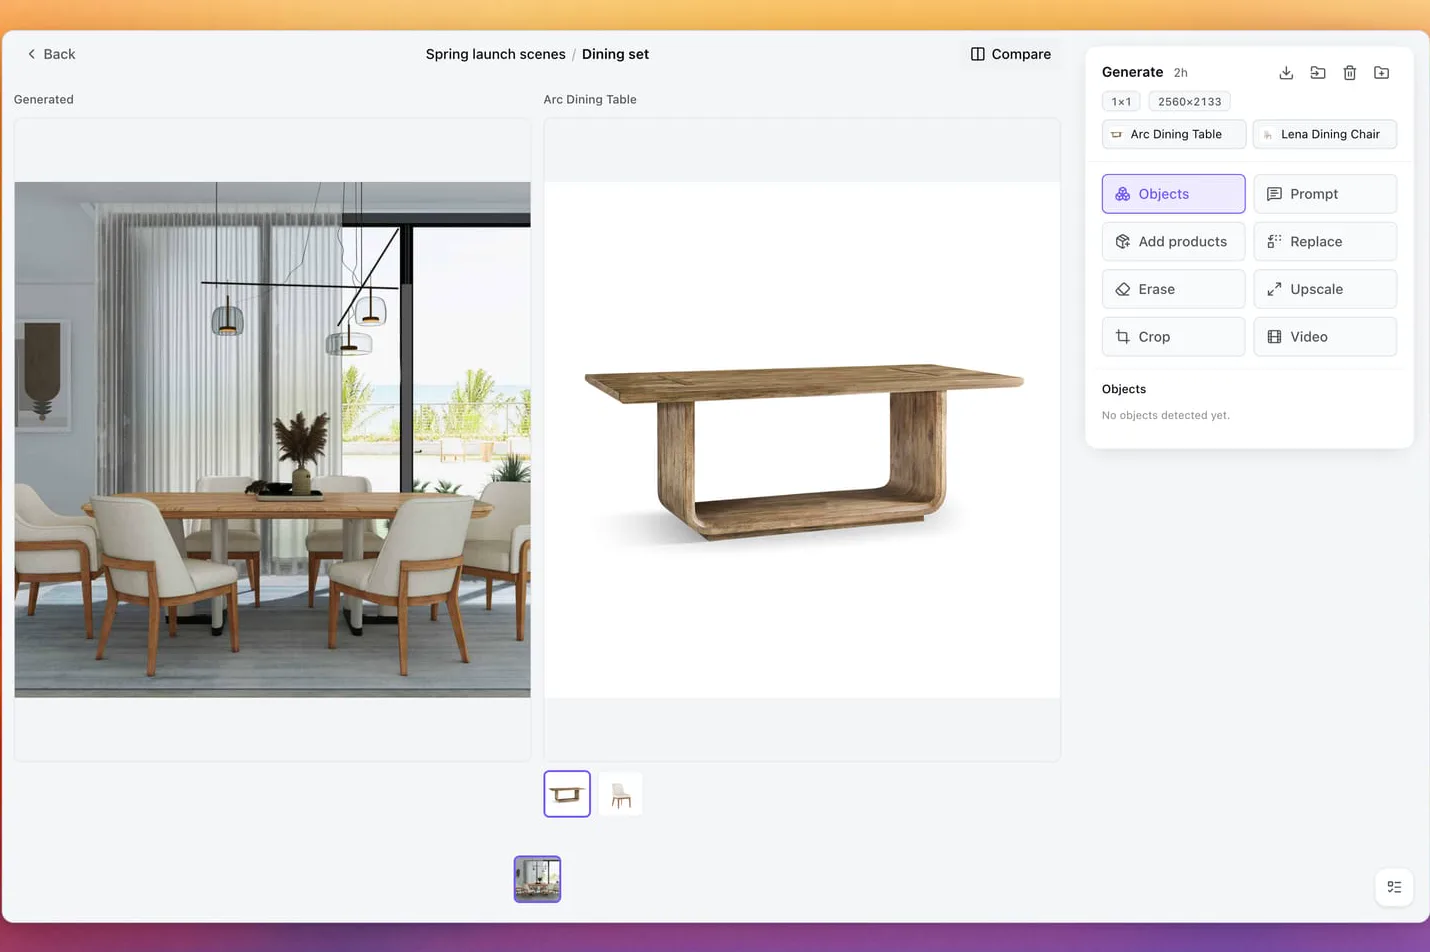
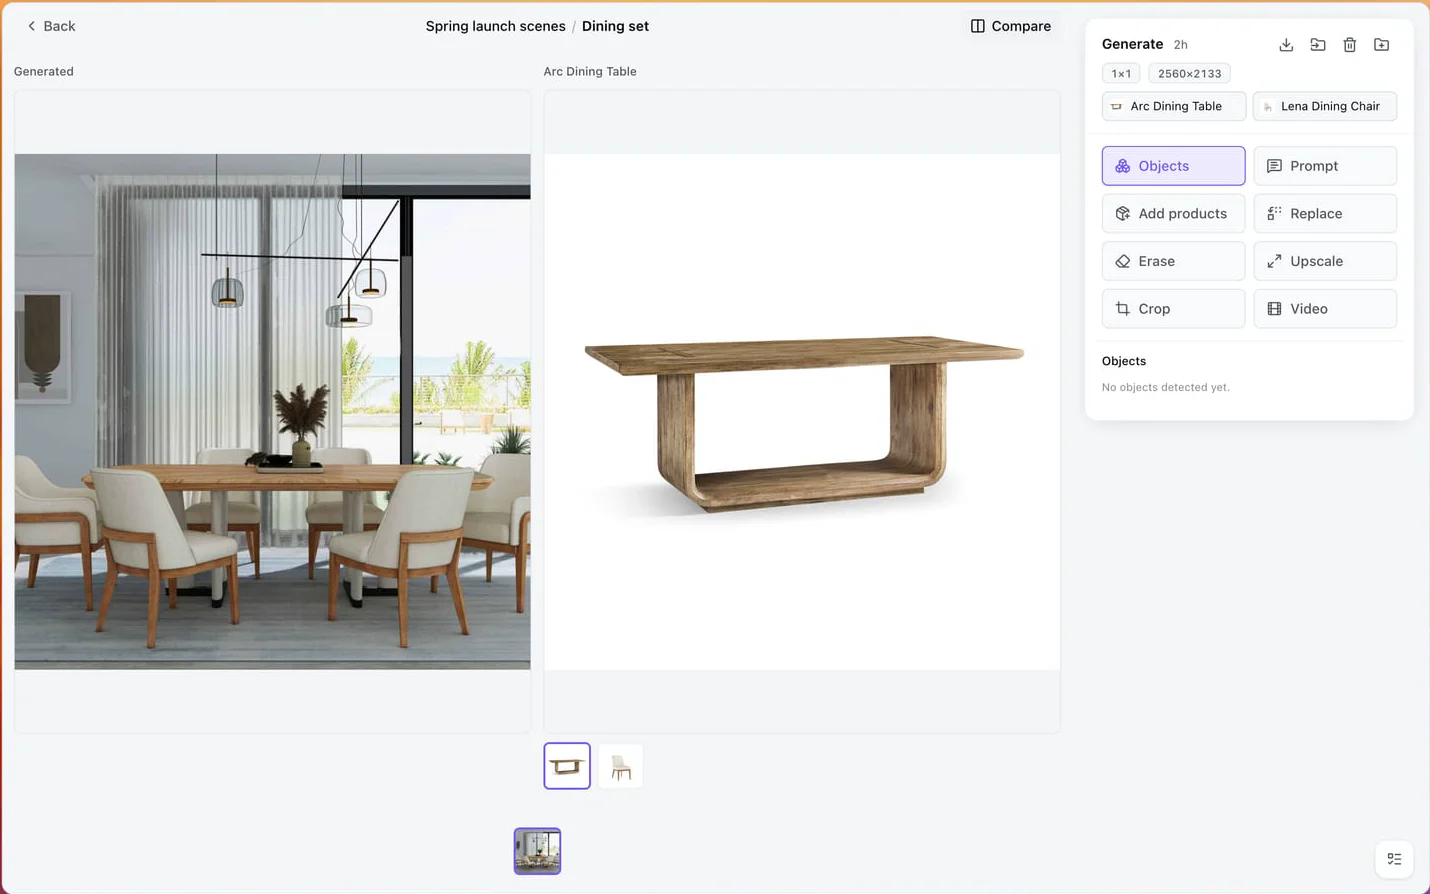
DecorX: stills show whole again, each in its own shape
The 3:2 crops cut off the sides of the prototype, staging and Compare stills. They are back to full frames, and the stills box no longer has a fixed shape or a fill: each still keeps its own proportions with rounded corners, sharing one grid cell so switching never jumps.

diff --git a/app/work/decorx/page.tsx b/app/work/decorx/page.tsx
@@ -72,7 +72,7 @@ const HISTORY: Still[] = [
   {
     label: "Prototype",
     src: "history-2026-pipeline.webp",
-    width: 1374,
+    width: 1442,
     height: 916,
     alt: "Nodes on a canvas: product sets and a floor plan with five rooms, wired into Generate Rooms and a gallery",
     title: "The first prototype in code, January 2026",
@@ -107,7 +107,7 @@ const EDITOR: Still[] = [
     label: "Staging",
     src: "editor-2026-staging.webp",
     width: 1600,
-    height: 1066,
+    height: 954,
     alt: "A dining room in DecorX's editor, with Room Cleaning above it and a Virtual Staging panel of rooms beside it",
     title: "Staging and room cleaning, 2026",
     text: "Stage products into a photo of a room, or clean the room of its furniture first.",
@@ -116,7 +116,7 @@ const EDITOR: Still[] = [
     label: "Compare",
     src: "editor-2026-compare.webp",
     width: 1430,
-    height: 952,
+    height: 894,
     alt: "A generated dining room beside the product photo of the table in it, with the edit tools on the right",
     title: "Compare, 2026",
     text: "Check an edit against the real product photo before keeping it.",

diff --git a/app/work/decorx/demos.module.css b/app/work/decorx/demos.module.css
@@ -423,22 +423,21 @@
   }
 }
 
-/* Stills: one image at a time in a fixed frame, stepped through with the shared toggle. The frame has a
-   faint fill so stills of different shapes sit in the same box. */
+/* Stills: one image at a time, stepped through with the shared toggle. Each still keeps its own shape: they
+   share one grid cell, so the box is as tall as the tallest, and a shorter still sits centred in it with the
+   page showing around it rather than a fill. */
 .stills {
   display: grid;
+  align-items: center;
   width: 100%;
-  aspect-ratio: 3 / 2;
-  border-radius: 6px;
-  overflow: hidden;
-  background: color-mix(in srgb, var(--muted) 10%, transparent);
 }
 
 .stills img {
   grid-area: 1 / 1;
+  display: block;
   width: 100%;
-  height: 100%;
-  object-fit: contain;
+  height: auto;
+  border-radius: 6px;
   opacity: 0;
   transition: opacity 240ms ease-out;
 }
